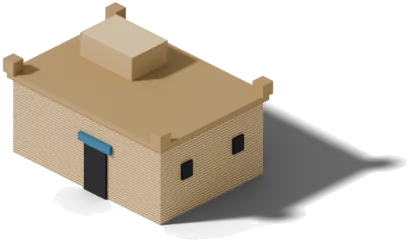
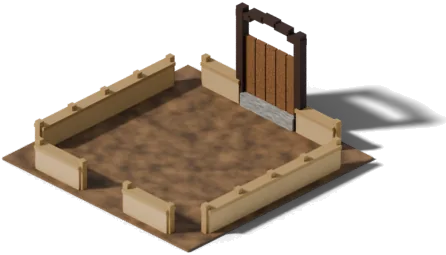
Storage areas are open fenced yards; goods lie under settlers and keep buildings off (#123)
- Storage area art for all four peoples: bare earth inside a low fence (planks, sandstone, bamboo or woven branches between posts), gaps at the corners, an opening at the door and a tall gate at the back. No roof.
- Its goods lie inside the fence in up to six heaps of eight, one good each, three columns by two rows.
- A settler on or beside a goods heap is always drawn over it; heaps still never hide under their own building.
- The castle's heap spots move into the simulation (heaps.ts), so the client draws goods there and no building may be placed on that ground ("Goods lie here").

diff --git a/packages/client/src/renderer.ts b/packages/client/src/renderer.ts
@@ -3,7 +3,7 @@ import { Application, Container, Graphics, Matrix, Sprite, Text, Texture } from 
 import {
   BUILDING_TYPES, DEPOSIT_COAL, DEPOSIT_GEMS, DEPOSIT_GOLD, DEPOSIT_IRON, DEPOSIT_SULFUR, FIELD_RIPE, ROCK_STONE, SOLDIER_STATS, TERRAIN_GRASS, TERRAIN_MOUNTAIN,
   GOOD_TYPES, isStorageBuilding, TERRAIN_WATER, TREE_MATURE, VISION_NONE, VISION_VISIBLE, canSee, isMilitaryBuilding, isSoldierType, isSpecialistType, isWarMachineType, isShipType, tileIndex,
-  BUILDING_STRUCTURE, WAR_MACHINE_STATS, buildingLabel, TOOL_TYPES, WEAPON_TYPES
+  BUILDING_STRUCTURE, WAR_MACHINE_STATS, buildingLabel, TOOL_TYPES, WEAPON_TYPES, GOODS_DEPTH_BACK, castleHeapSpots
 } from '../../simulation/src/index.ts';
 import type { Building, BuildingTypeId, GoodType, RaceType, Settler, World } from '../../simulation/src/index.ts';
 import { SpriteBank, TREE_VARIANTS, lookOf } from './sprites.ts';
@@ -192,15 +192,13 @@ const CASTLE_PILE_GROUPS: readonly (readonly GoodType[])[] = [
   ['grain', 'flour', 'water', 'bread', 'fish', 'pig', 'meat', 'wine', 'beer', 'rice', 'rice_wine', 'honey', 'mead'],
   [...TOOL_TYPES, ...WEAPON_TYPES]
 ];
-/** Distance between piles inside a heap, in tiles: close enough to read as one heap. */
-const HEAP_SPACING = 0.62;
 /** Goods drawn per pile: a pile of eight, as storage holds them. */
 const PILE_SIZE = 8;
 /** Where the items of a pile sit, in screen pixels from its foot: two layers of four. */
 const PILE_OFFSETS = [[0, 0], [7, -3], [-7, -3], [0, -6], [0, -6], [7, -9], [-7, -9], [0, -12]];
 /** Building materials are drawn larger than other goods, on the ground and in a carrier's arms, so they read at a glance. */
-/** How far back goods are sorted among upright things, in tiles of depth. */
-const GOODS_DEPTH_BACK = 1.9;
+/** A storage area's heaps lie in this many columns inside its fence (6 heaps of 8: three columns, two rows). */
+const STORE_HEAP_COLUMNS = 3;
 const LARGE_GOODS: ReadonlySet<string> = new Set(['log', 'plank', 'stone']);
 const LARGE_GOODS_SCALE = 2.2;
 /** Planks' art is already a wide stack, so they grow less. */
@@ -563,6 +561,7 @@ export class MapView {
     const { world } = this;
     const alive = new Set<number>();
     this.siteGround.clear();
+    this.pileDepth.clear();
     for (const b of world.buildings) {
       if (!this.isBuildingVisible(b)) continue;
       alive.add(b.id);
@@ -690,7 +689,12 @@ export class MapView {
         }
         return { x: b.doorX + 0.5, y: b.doorY + 1.5 };
       }
-      if (isStore) return { x: b.x + 0.5 + (index % b.size), y: b.y + b.size - 0.55 - Math.floor(index / b.size) * 0.8 };
+      // A storage area's heaps lie on the ground inside its fence, one good each, in a grid: the back row first.
+      if (isStore) {
+        const cols = STORE_HEAP_COLUMNS, rows = Math.ceil(limit / cols);
+        const col = index % cols, row = Math.floor(index / cols);
+        return { x: b.x + (col + 0.5) * (b.size - 0.5) / cols + 0.25, y: b.y + 0.55 + (row + 0.5) * (b.size - 1.1) / rows };
+      }
       // A construction site's materials wait in the open along its right front edge, clear of the crew on the site.
       if (!b.isComplete) return { x: b.x + b.size + 0.55, y: b.y + b.size - 0.5 - index * 0.75 };
       const along = isOutput ? b.x + b.size - 0.45 - (index - inputPiles) * 0.55 : b.x + 0.45 + index * 0.55;
@@ -706,6 +710,9 @@ export class MapView {
         // pile still stands in front of the building wall behind it.
         // Never behind the building they belong to, whatever the size of its art.
         sprite.zIndex = Math.max(at.x + at.y - GOODS_DEPTH_BACK, v.root.zIndex + 0.01) + n * 0.01;
+        // Remember the heap's depth on its tile, so a settler walking over it is lifted above it.
+        const tile = Math.floor(at.y) * this.world.width + Math.floor(at.x);
+        this.pileDepth.set(tile, Math.max(this.pileDepth.get(tile) ?? -Infinity, sprite.zIndex));
         if (!art) { sprite.visible = false; continue; }
         this.place(sprite, art, 0, 0);
         // Stone, logs and planks are rendered at their larger size (art/blender/nature.py), so only the spacing grows.
@@ -718,45 +725,11 @@ export class MapView {
     for (let j = k; j < v.piles.length; j++) v.piles[j].visible = false;
   }
 
-  private readonly heaps = new Map<number, { x: number; y: number }[][]>();
-  /**
-   * Spots for the castle's four heaps, each a tight cluster of piles on open ground in front of the castle: two in
-   * front of its door wall, either side of the way in, and two along its right-hand wall. Nearest the castle first.
-   */
+  /** The depth of the highest goods sprite on each tile, this frame: settlers on or beside a heap draw above it. */
+  private readonly pileDepth = new Map<number, number>();
+  /** The castle's heaps: the simulation keeps their spots, so buildings are never placed over them. */
   private castleHeaps(b: Building): { x: number; y: number }[][] {
-    const known = this.heaps.get(b.id);
-    if (known && this.world.tick % 50 !== 0) return known;
-    const w = this.world, s = b.size;
-    const isOpen = (x: number, y: number) => {
-      const tx = Math.floor(x), ty = Math.floor(y);
-      if (tx < 0 || ty < 0 || tx >= w.width || ty >= w.height) return false;
-      if (Math.abs(tx - b.doorX) <= 1 && ty >= b.y + s) return false;
-      // Only ground the castle's art cannot cover: far enough in front that the goods, sorted back as they are, still
-      // sort after the castle, and so does a settler walking over them.
-      if (x + y - GOODS_DEPTH_BACK < b.x + b.y + s + 0.1) return false;
-      const i = tileIndex(w, tx, ty);
-      return w.footprint[i] === 0 && w.door[i] === 0 && w.terrain[i] !== TERRAIN_WATER && w.rock[i] === 0 && w.tree[i] < 0;
-    };
-    // Each heap: a corner to grow from and the two directions it grows in (across, then away from the wall).
-    const front = b.y + s + 0.35, side = b.x + s + 0.35;
-    const regions: { x: number; y: number; ax: number; ay: number; bx: number; by: number }[] = [
-      { x: b.doorX - 1.35, y: front, ax: -1, ay: 0, bx: 0, by: 1 },
-      { x: b.doorX + 2.35, y: front, ax: 1, ay: 0, bx: 0, by: 1 },
-      { x: side, y: b.y + s - 0.4, ax: 0, ay: -1, bx: 1, by: 0 },
-      { x: side, y: b.y + s / 2 - 0.9, ax: 0, ay: -1, bx: 1, by: 0 }
-    ];
-    const heaps = regions.map((r) => {
-      const spots: { x: number; y: number }[] = [];
-      for (let depth = 0; depth < 8 && spots.length < 12; depth++) {
-        for (let across = 0; across < 4 && spots.length < 12; across++) {
-          const x = r.x + (r.ax * across + r.bx * depth) * HEAP_SPACING, y = r.y + (r.ay * across + r.by * depth) * HEAP_SPACING;
-          if (isOpen(x, y)) spots.push({ x, y });
-        }
-      }
-      return spots;
-    });
-    this.heaps.set(b.id, heaps);
-    return heaps;
+    return castleHeapSpots(this.world, b);
   }
 
   /** A finished mill's sails: turning a quarter in 8 steps while the miller grinds, at rest otherwise. */
@@ -1123,7 +1096,14 @@ export class MapView {
     this.placeTint(v, race, look, anim, v.dir, frame + s.id, s.owner);
     const p = iso(tx, ty);
     v.root.position.set(p.x, p.y);
-    v.root.zIndex = tx + ty;
+    // Goods are part of the ground: a settler on or beside a heap is always drawn over it, as in the original.
+    let z = tx + ty;
+    const fx = Math.floor(tx), fy = Math.floor(ty), w = this.world.width;
+    for (let dy = -1; dy <= 1; dy++) for (let dx = -1; dx <= 1; dx++) {
+      const depth = this.pileDepth.get((fy + dy) * w + fx + dx);
+      if (depth !== undefined && depth >= z) z = depth + 0.02;
+    }
+    v.root.zIndex = z;
     v.lastX = tx; v.lastY = ty;
     // A trade ship's cargo is in its hold.
     const carriedGood = pose ? pose.carrying : s.carrying;

diff --git a/packages/simulation/src/heaps.ts b/packages/simulation/src/heaps.ts
@@ -1,0 +1,67 @@
+import { TERRAIN_WATER, tileIndex } from './world.ts';
+import type { Building, World } from './world.ts';
+
+/**
+ * Where the castle's stockpile lies on the ground: four heaps of piles on open ground in front of the castle, two in
+ * front of its door wall, either side of the way in, and two along its right-hand wall. The client draws the goods on
+ * these spots and buildings may not be placed over them, so both read them from here.
+ */
+
+/** How far back goods are sorted among upright things, in tiles of depth: a settler on a pile is drawn over it. */
+export const GOODS_DEPTH_BACK = 1.9;
+/** Distance between piles inside a heap, in tiles: close enough to read as one heap. */
+export const HEAP_SPACING = 0.62;
+/** Piles one heap holds at most. */
+const PILES_PER_HEAP = 12;
+
+export interface HeapSpot { x: number; y: number }
+
+const cache = new WeakMap<World, Map<number, { mapVersion: number; heaps: HeapSpot[][] }>>();
+
+/** The castle's four heaps, each a list of pile spots nearest the castle first. */
+export function castleHeapSpots(world: World, castle: Building): HeapSpot[][] {
+  let byCastle = cache.get(world);
+  if (!byCastle) { byCastle = new Map(); cache.set(world, byCastle); }
+  const known = byCastle.get(castle.id);
+  if (known && known.mapVersion === world.mapVersion) return known.heaps;
+  const s = castle.size;
+  const isOpen = (x: number, y: number) => {
+    const tx = Math.floor(x), ty = Math.floor(y);
+    if (tx < 0 || ty < 0 || tx >= world.width || ty >= world.height) return false;
+    if (Math.abs(tx - castle.doorX) <= 1 && ty >= castle.y + s) return false;
+    // Only ground the castle's art cannot cover: far enough in front that the goods, sorted back as they are, still
+    // sort after the castle, and so does a settler walking over them.
+    if (x + y - GOODS_DEPTH_BACK < castle.x + castle.y + s + 0.1) return false;
+    const i = tileIndex(world, tx, ty);
+    return world.footprint[i] === 0 && world.door[i] === 0 && world.terrain[i] !== TERRAIN_WATER && world.rock[i] === 0 && world.tree[i] < 0;
+  };
+  // Each heap: a corner to grow from and the two directions it grows in (across, then away from the wall).
+  const front = castle.y + s + 0.35, side = castle.x + s + 0.35;
+  const regions = [
+    { x: castle.doorX - 1.35, y: front, ax: -1, ay: 0, bx: 0, by: 1 },
+    { x: castle.doorX + 2.35, y: front, ax: 1, ay: 0, bx: 0, by: 1 },
+    { x: side, y: castle.y + s - 0.4, ax: 0, ay: -1, bx: 1, by: 0 },
+    { x: side, y: castle.y + s / 2 - 0.9, ax: 0, ay: -1, bx: 1, by: 0 }
+  ];
+  const heaps = regions.map((r) => {
+    const spots: HeapSpot[] = [];
+    for (let depth = 0; depth < 8 && spots.length < PILES_PER_HEAP; depth++) {
+      for (let across = 0; across < 4 && spots.length < PILES_PER_HEAP; across++) {
+        const x = r.x + (r.ax * across + r.bx * depth) * HEAP_SPACING, y = r.y + (r.ay * across + r.by * depth) * HEAP_SPACING;
+        if (isOpen(x, y)) spots.push({ x, y });
+      }
+    }
+    return spots;
+  });
+  byCastle.set(castle.id, { mapVersion: world.mapVersion, heaps });
+  return heaps;
+}
+
+/** Whether goods from a castle's stockpile lie, or may lie, on this tile: no building goes there. */
+export function isHeapGround(world: World, tx: number, ty: number): boolean {
+  for (const b of world.buildings) {
+    if (b.typeId !== 'castle' || Math.abs(tx - b.x) > b.size + 8 || Math.abs(ty - b.y) > b.size + 8) continue;
+    for (const heap of castleHeapSpots(world, b)) for (const spot of heap) if (Math.floor(spot.x) === tx && Math.floor(spot.y) === ty) return true;
+  }
+  return false;
+}

diff --git a/packages/simulation/test/economy.test.ts b/packages/simulation/test/economy.test.ts
@@ -1,7 +1,7 @@
 import { test } from 'node:test';
 import assert from 'node:assert/strict';
 import {
-  BUILDING_TYPES, FIELD_RIPE, FISH_REGROW_TICKS, GOOD_TYPES, NO_TREE, TREE_MATURE, castleOf, createWorld, cropQuality, loadGame, newBuilding, placementProblem,
+  BUILDING_TYPES, FIELD_RIPE, FISH_REGROW_TICKS, GOOD_TYPES, NO_TREE, TREE_MATURE, castleHeapSpots, castleOf, createWorld, cropQuality, groundProblem, isHeapGround, loadGame, newBuilding, placementProblem,
   saveGame, step, tileIndex
 } from '../src/index.ts';
 import type { BuildingTypeId, Command, World } from '../src/index.ts';
@@ -293,6 +293,21 @@ test('a new storage area takes the castle\'s stored goods when carriers are free
   runUntil(world, () => totalOf(building(world, storeId)) >= 20, 6000);
   assert.ok(castle.stock.plank < planks, 'planks left the castle');
   assert.equal(building(world, storeId).stock.bread, 0, 'bread is not stored');
+});
+
+test('no building goes over the ground where the castle\'s goods lie', () => {
+  const world = createWorld({ seed: 11 });
+  const castle = castleOf(world, 0)!;
+  const spots = castleHeapSpots(world, castle).flat();
+  assert.ok(spots.length >= 24, `${spots.length} heap spots`);
+  for (const spot of spots) {
+    const x = Math.floor(spot.x), y = Math.floor(spot.y);
+    assert.ok(isHeapGround(world, x, y));
+    const problem = groundProblem(world, 0, 'woodcutter', x, y);
+    assert.ok(problem !== null, `a woodcutter at ${x},${y}`);
+  }
+  // On open grass the goods themselves are the reason.
+  assert.ok(spots.some((spot) => groundProblem(world, 0, 'woodcutter', Math.floor(spot.x), Math.floor(spot.y)) === 'Goods lie here'));
 });
 
 test('transport priority and pause commands are validated and applied', () => {

diff --git a/packages/simulation/test/war-machines.test.ts b/packages/simulation/test/war-machines.test.ts
@@ -55,9 +55,10 @@ function enemyTower(world: World): Building {
 test('each people has its own war machine hall', () => {
   const world = createMatch(4, 'calm', 'small', 'romans', 'asians');
   const castle = castleOf(world, 0)!;
-  clear(world, castle.x + 8, castle.y + 2, 4);
-  assert.equal(placementProblem(world, 0, 'cannon_hall', castle.x + 7, castle.y + 1), 'Only the Asians build this');
-  assert.equal(placementProblem(world, 0, 'catapult_hall', castle.x + 7, castle.y + 1), null);
+  // Clear of the castle's goods yard, where nothing may be built.
+  clear(world, castle.x + 11, castle.y + 2, 4);
+  assert.equal(placementProblem(world, 0, 'cannon_hall', castle.x + 10, castle.y + 1), 'Only the Asians build this');
+  assert.equal(placementProblem(world, 0, 'catapult_hall', castle.x + 10, castle.y + 1), null);
   for (const stats of Object.values(WAR_MACHINE_STATS)) assert.ok(stats.shots > 0 && stats.range > 0 && stats.accuracy <= 1);
 });
 

diff --git a/packages/simulation/src/commands.ts b/packages/simulation/src/commands.ts
@@ -1,3 +1,4 @@
+import { isHeapGround } from './heaps.ts';
 import {
   BUILDING_TYPES, GOOD_TYPES, SPECIALIST_TOOLS, SPECIALIST_TYPES, THIEF_HEALTH, TOOL_TYPES, WEAPON_TYPES, WORK_AREA_BUILDINGS, WORK_AREA_RADIUS, WORK_AREA_REACH,
   RACE_SETTINGS, consumersOf, isBuildableBy, isSoldierType, isSpecialistType, isUnitType, isWarMachineType
@@ -119,6 +120,8 @@ export function groundProblem(world: World, playerId: number, buildingType: Buil
       if (world.tree[i] >= 0) return 'Trees are in the way';
       if (world.rock[i] > 0) return 'Rocks are in the way';
       if (world.field[i] >= 0) return 'Fields are in the way';
+      // Goods lie on the castle's yard, as in the original: no building goes over them.
+      if (isHeapGround(world, x + dx, y + dy)) return 'Goods lie here';
     }
   }
   const door = tileIndex(world, doorX, doorY);

diff --git a/packages/simulation/src/index.ts b/packages/simulation/src/index.ts
@@ -14,3 +14,4 @@ export * from './regions.ts';
 export * from './trade.ts';
 export * from './sea.ts';
 export * from './land.ts';
+export * from './heaps.ts';

diff --git a/art/blender/buildings.py b/art/blender/buildings.py
@@ -410,8 +410,7 @@ def recipe(b, typeId):
         b.body(2.8, 1.9, -0.2, 0.4, floors=2); b.body(1.1, 1.1, 1.3, -0.95)
         s.put(NAT + 'tree_oak.glb', -1.5, -1.4, 0, 0, 1.0); s.put(NAT + 'plant_bush.glb', 0.3, -1.5, 0, 0, 1.3)
     elif typeId == 'storage':
-        b.body(2.3, 1.6, -0.15, 0.4, roof='high', wood=True)
-        b.crates(0.4, -0.85, 3); b.barrels(-1.15, -0.9, 2); b.sacks(-0.4, -1.1, 3)
+        storage_yard(b)
     elif typeId == 'healer':
         b.body(1.4, 1.1, -0.15, 0.25); b.banner(0.75, -0.6, 1.2, s.mat('white', 'e8e2d2'))
         for (x, y) in [(-0.7, -0.75), (-0.45, -0.85), (0.3, -0.85)]: s.put(NAT + 'plant_bushSmall.glb', x, y, 0, 0, 1.2)
@@ -454,6 +453,59 @@ def recipe(b, typeId):
         b.crates(-0.6, -0.65, 2); b.barrels(0.55, -0.8, 1); b.sacks(-0.25, -0.95, 2)
     else:
         raise KeyError(typeId)
+
+
+def storage_yard(b):
+    """An open yard on bare earth, no roof: a low fence of short sections between posts, gaps at the corners and an
+    opening at the door, and a tall gate at the back. The goods are drawn by the game, in heaps inside the fence."""
+    s, R = b.s, b.race
+    h = 1.3
+    s.box(0, 0, 0, 2 * h + 0.3, 2 * h + 0.3, 0.025, s.mat('earth', '6e5236', noise=14, c2='806040'))
+    post = {'romans': b.DARKWOOD, 'egyptians': b.SANDDARK, 'asians': b.LACQUER, 'amazons': b.BARK}[R]
+    bamboo = s.mat('bamboo', 'b8a45a', rough=0.6, noise=8, c2='9a8a44')
+
+    def section(a, c, along_x, fixed):
+        """One fence section from a to c along a side; `fixed` is the side's other coordinate."""
+        mid, ln = (a + c) / 2, c - a
+        at = (lambda t: (t, fixed)) if along_x else (lambda t: (fixed, t))
+        dims = (lambda l, t: (l, t)) if along_x else (lambda l, t: (t, l))
+        if R == 'romans':
+            for z in (0.1, 0.24):
+                x, y = at(mid); sx, sy = dims(ln, 0.035); s.box(x, y, z, sx, sy, 0.07, b.WOOD)
+        elif R == 'egyptians':
+            x, y = at(mid); sx, sy = dims(ln, 0.12); s.box(x, y, 0, sx, sy, 0.28, b.SAND)
+            sx, sy = dims(ln + 0.02, 0.15); s.box(x, y, 0.28, sx, sy, 0.04, b.SANDDARK)
+        elif R == 'asians':
+            n = max(2, int(ln / 0.07))
+            for k in range(n):
+                x, y = at(a + (k + 0.5) * ln / n); s.cyl(x, y, 0, 0.022, 0.34, bamboo, 6)
+            x, y = at(mid); sx, sy = dims(ln, 0.03); s.box(x, y, 0.3, sx, sy, 0.03, post)
+        else:
+            for i, z in enumerate((0.06, 0.15, 0.24)):
+                x, y = at(mid); sx, sy = dims(ln, 0.05); s.box(x, y, z, sx, sy, 0.06, b.BARK if i % 2 == 0 else b.STRAW)
+
+    def side(along_x, fixed, opening=None):
+        """A side from corner to corner, leaving the corners open, and an opening (centre, width) if given."""
+        cuts = [(-h + 0.28, h - 0.28)]
+        if opening:
+            c, w = opening; cuts = [(-h + 0.28, c - w / 2), (c + w / 2, h - 0.28)]
+        for a, c in cuts:
+            n = max(1, round((c - a) / 0.5))
+            for k in range(n + 1):
+                t = a + k * (c - a) / n
+                x, y = (t, fixed) if along_x else (fixed, t)
+                s.box(x, y, 0, 0.07, 0.07, 0.38, post)
+            section(a, c, along_x, fixed)
+
+    side(True, -h, opening=(b.door_x, 0.7))   # the front, open at the door where carriers come in
+    side(True, h, opening=(0.0, 0.9))         # the back, with the gate
+    side(False, -h); side(False, h)
+    # The gate: two tall posts under a curved crossbeam, plank boards between them over a short stone wall.
+    for x in (-0.45, 0.45): s.box(x, h, 0, 0.1, 0.1, 1.25, b.DARKWOOD)
+    for k, z in enumerate((1.12, 1.18, 1.2, 1.18, 1.12)):
+        s.box(-0.4 + k * 0.2, h, z, 0.22, 0.09, 0.08, b.DARKWOOD)
+    s.box(0, h, 0, 0.82, 0.16, 0.18, b.STONE)
+    for k in range(5): s.box(-0.32 + k * 0.16, h + 0.01, 0.18, 0.14, 0.04, 0.72, b.WOOD)
 
 
 def castle(b):
